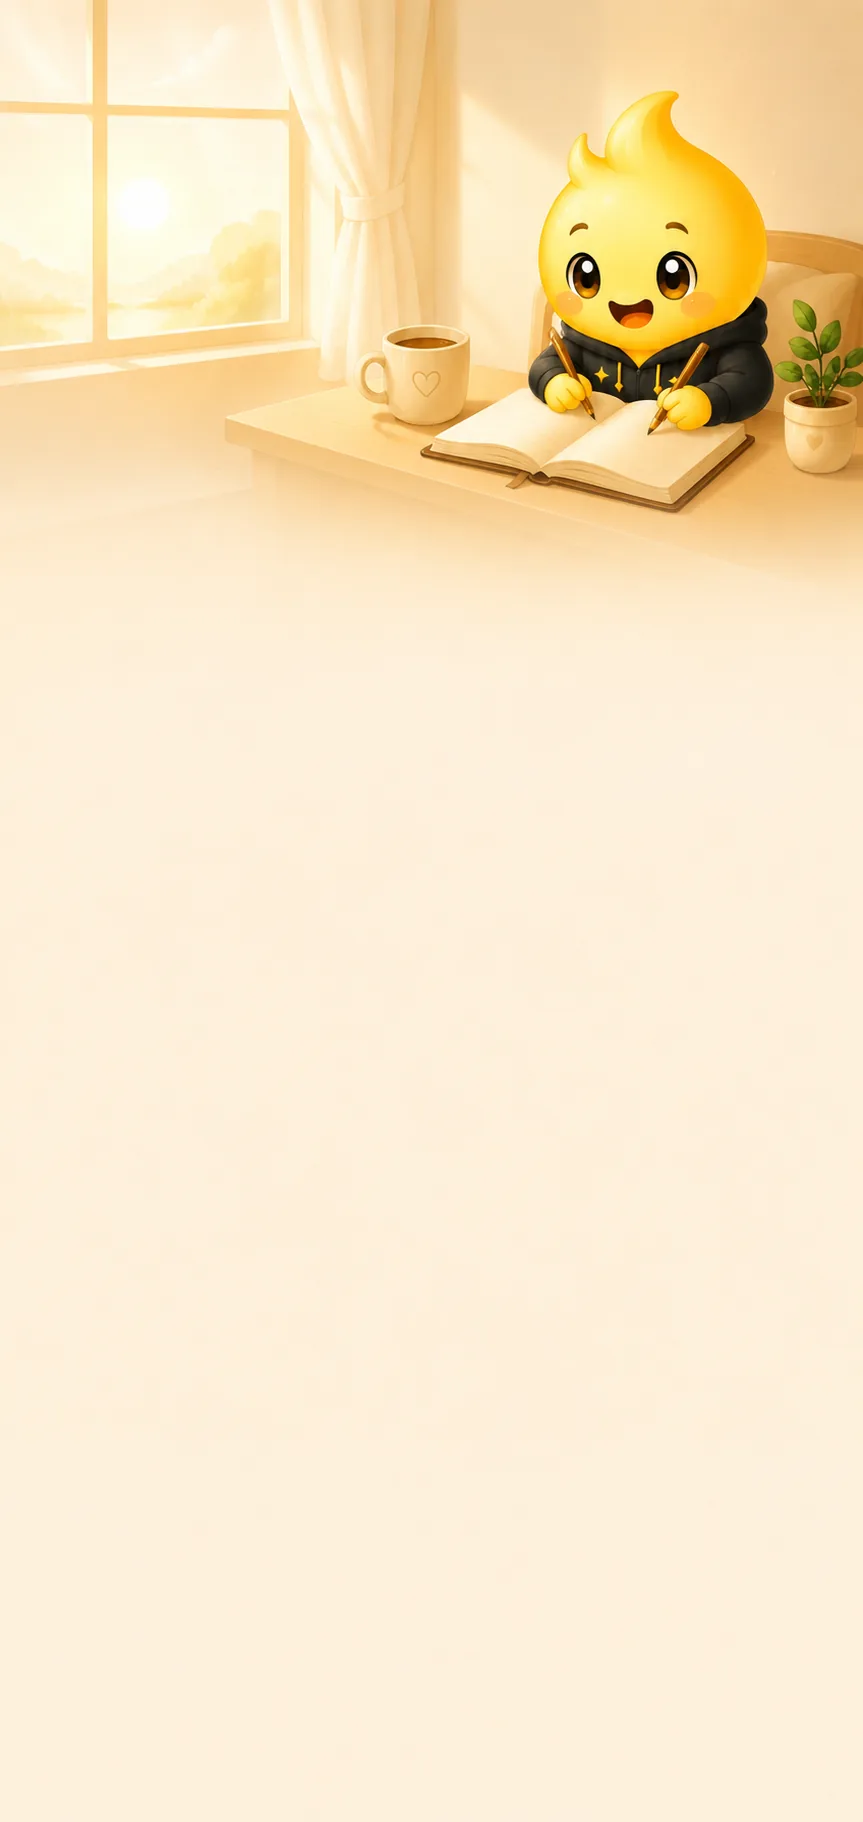
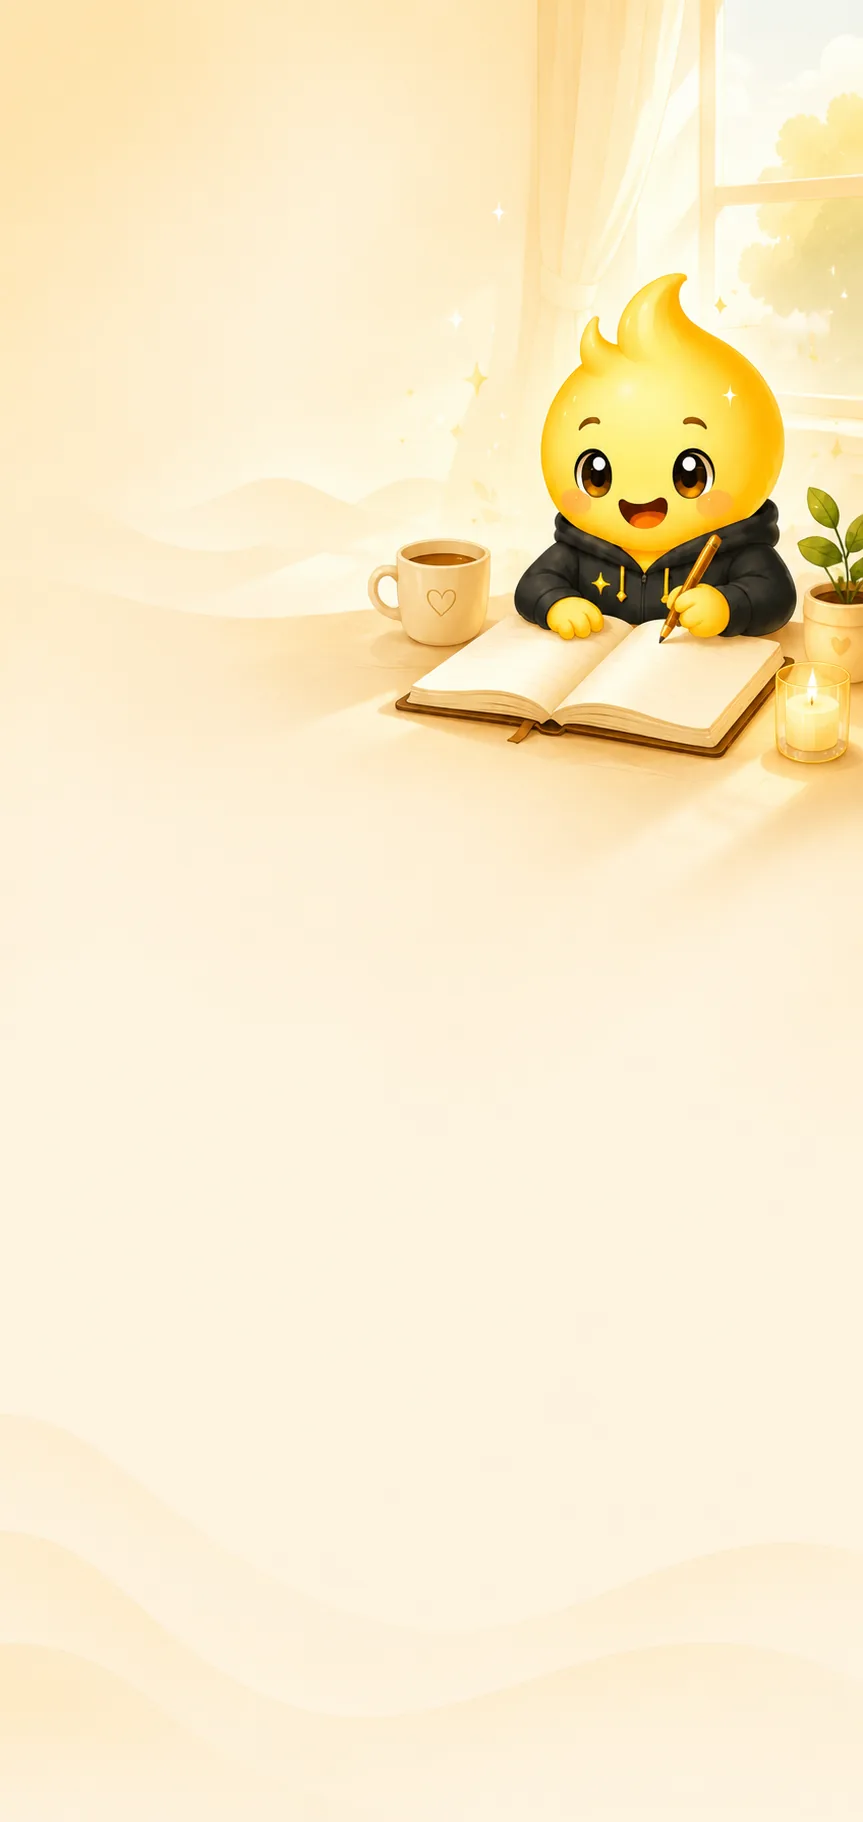
feat: improve bg

diff --git a/app/move/track.tsx b/app/move/track.tsx
@@ -362,13 +362,31 @@ export default function MoveTrackScreen() {
         <ScreenHeader
           /* Only in the picture. On the screen the distance is the headline and
              a title over it says the same thing twice — but a shared image
-             leaves the app behind, so it has to carry its own name. */
-          title={capturing ? "RUN WITH LUMO" : undefined}
-          rightAction={
-            capturing
-              ? undefined
-              : { icon: "check", label: saving ? "Saving" : "Save this activity", onPress: () => void handleSave() }
+             leaves the app behind, so it has to carry its own name.
+
+             `centerContent` rather than `title`, because the header's own title
+             face is the serif every screen wears and this is a mark on a
+             picture: caps, tracked, in the app's sans.
+
+             Always rendered, hidden by opacity. Adding it for the shot made the
+             header re-lay out one frame before the capture, which read as the
+             page twitching under the finger that just pressed Share. */
+          centerContent={
+            <View accessibilityElementsHidden={!capturing} importantForAccessibility={capturing ? "auto" : "no-hide-descendants"}>
+              <AppText color={palette.ink} numberOfLines={1} style={[styles.shareTitle, { opacity: capturing ? 1 : 0 }]}>
+                RUN WITH LUMO
+              </AppText>
+            </View>
           }
+          rightAction={{
+            icon: "check",
+            label: saving ? "Saving" : "Save this activity",
+            onPress: () => void handleSave(),
+            /* An empty box of the button's own size for the shot: `render`
+               suppresses the outline too, so the slot holds its width without
+               drawing anything. */
+            render: capturing ? <View style={styles.headerSlot} /> : undefined
+          }}
         />
 
         <View style={styles.summaryCapture}>
@@ -414,17 +432,20 @@ export default function MoveTrackScreen() {
             Hidden without a route. A walk with no fixes has nothing worth
             sending — the shared image would be four numbers on cream — and an
             offer to share it is the app asking for something nobody wants. */}
-        {toWalkPoints(state).length > 0 && !capturing ? (
+        {toWalkPoints(state).length > 0 ? (
         <Pressable
           accessibilityRole="button"
           accessibilityLabel="Share this activity"
+          // Hidden rather than removed while the shot is taken — pulling it out
+          // of the layout shifted everything above it mid-capture.
+          accessibilityElementsHidden={capturing}
           onPress={() => void handleShare()}
           // The app's chip wash, as on the habit form's categories: a green
           // tint with the glyph and label green to match, so it reads as one
           // control rather than dark text on a coloured patch.
           style={({ pressed }) => [
             styles.shareAction,
-            { backgroundColor: alpha(palette.greenDark, "1F"), opacity: pressed ? 0.6 : 1 }
+            { backgroundColor: alpha(palette.greenDark, "1F"), opacity: capturing ? 0 : pressed ? 0.6 : 1 }
           ]}
         >
           <Icon name="share" size={20} color={palette.greenDark} weight="fill" />
@@ -828,6 +849,20 @@ const styles = StyleSheet.create({
     minHeight: 38,
     paddingHorizontal: spacing.lg,
     borderRadius: radius.pill
+  },
+  headerSlot: {
+    width: 38,
+    height: 38
+  },
+  shareTitle: {
+    fontFamily: fontFamilies.lexendBlack,
+    fontSize: 14,
+    lineHeight: 19,
+    letterSpacing: 1.2,
+    // Riding the top of the header band rather than sitting on the buttons'
+    // centre line: in the picture there are no buttons to line up with, and a
+    // mark belongs at the edge of the frame.
+    marginTop: -spacing.sm
   },
   shareLabel: {
     fontFamily: fontFamilies.lexendBold,

diff --git a/lib/move/tracking/pace.ts b/lib/move/tracking/pace.ts
@@ -36,16 +36,19 @@ export function paceToSpeed(paceMsPerKm: PaceMsPerKm): number | null {
 }
 
 /**
- * "6:24 /km", or a zero of the same shape when there is nothing to show yet.
+ * "6:24 /km", or a bare "0:00" when there is nothing to show yet.
  *
  * Zero rather than a dash: on a readout of four figures a row of dashes looked
- * like the tracker had failed, where "0:00 /km" reads as "not yet". The VALUE
- * stays null — only its rendering is a number, and nothing downstream of this
- * ever sees a zero it did not measure.
+ * like the tracker had failed, where a zero reads as "not yet". The VALUE stays
+ * null — only its rendering is a number, and nothing downstream of this ever
+ * sees a zero it did not measure.
+ *
+ * The unit goes with it. "0:00 /km" states a pace per kilometre for a walk that
+ * has covered none; the bare figure is a placeholder and looks like one.
  */
 export function formatPace(paceMsPerKm: PaceMsPerKm | null): string {
   if (paceMsPerKm === null || !Number.isFinite(paceMsPerKm) || paceMsPerKm <= 0) {
-    return "0:00 /km";
+    return "0:00";
   }
 
   const totalSeconds = Math.round(paceMsPerKm / 1000);
@@ -55,13 +58,15 @@ export function formatPace(paceMsPerKm: PaceMsPerKm | null): string {
   return `${minutes}:${String(seconds).padStart(2, "0")} /km`;
 }
 
-/** "5.4 km/h", or "0.0 km/h" before there is one — see `formatPace`. */
+/** "5.4 km/h", or a bare "0.0" before there is one — see `formatPace`. */
 export function formatSpeed(metresPerSecond: number | null): string {
   if (metresPerSecond === null || !Number.isFinite(metresPerSecond) || metresPerSecond < 0) {
-    return "0.0 km/h";
+    return "0.0";
   }
 
-  return `${((metresPerSecond * 3600) / 1000).toFixed(1)} km/h`;
+  const value = ((metresPerSecond * 3600) / 1000).toFixed(1);
+
+  return value === "0.0" ? value : `${value} km/h`;
 }
 
 /**
@@ -216,9 +221,9 @@ export function elevationGain(segments: ActivitySegment[]): number | null {
   return sawAltitude ? Math.round(gain) : null;
 }
 
-/** "120 m", or "0 m" when the device reported no altitude — see `formatPace`. */
+/** "120 m", or a bare "0" with no altitude to report — see `formatPace`. */
 export function formatElevation(metres: number | null): string {
-  return metres === null ? "0 m" : `${metres} m`;
+  return metres ? `${metres} m` : "0";
 }
 
 /** "14:22", or "1:14:22" once an activity passes the hour. */

diff --git a/constants/theme.ts b/constants/theme.ts
@@ -32,6 +32,17 @@ export const brand = {
    * `canvas` that they read yellow.
    */
   card: "#FDFBF5",
+  /**
+   * The page ground: one step down from `card`, and the only thing separating
+   * the two.
+   *
+   * The app deliberately puts pages, cards and the tab shell on the same warm
+   * near-white — nothing is a plate on a darker ground. At `card` exactly, that
+   * near-white read as bare white on a phone at full brightness, so the PAGE
+   * takes a shade off while the cards hold their value. Still far short of
+   * `canvas`, which stays the deeper cream the art is cut against.
+   */
+  page: "#FBF7EE",
   /** Warm outline for fields and selected cards (never a cool gray hairline). */
   borderWarm: "#E6D0A6",
   /** Inactive tracks, dots, and switch rails. */
@@ -73,12 +84,12 @@ export const brand = {
 export type LumoPalette = typeof lightPalette;
 
 export const lightPalette = {
-  // Same value as `card`. The page, the cards and the tab shell all sit on one
-  // warm near-white, so nothing is a plate on a darker ground. Cards are told
-  // apart by their shadow and, where they have one, their hairline — see the
-  // note on `brand.canvas`, which is kept as the deeper cream some art and
-  // gradients are cut against.
-  canvas: brand.card,
+  // A shade under `card`. The page, the cards and the tab shell still share one
+  // warm near-white — cards are told apart by their shadow and, where they have
+  // one, their hairline — but the ground carries the shade so a full-brightness
+  // screen does not read as plain white. See the note on `brand.canvas`, which
+  // stays the deeper cream some art and gradients are cut against.
+  canvas: brand.page,
   // Deeper than brand.creamSoft (which onboarding still uses over its lighter
   // cream) so recessed areas stay readable against the deeper canvas, and held
   // at the canvas's lower saturation.

diff --git a/constants/backgroundAssets.ts b/constants/backgroundAssets.ts
@@ -182,8 +182,19 @@ export type HomePlateFit = {
  * `sceneBottom` comes down as `scale` goes up: it is a fraction of the plate's
  * height, and the plate is now taller than the screen. The two always move
  * together, or the first card follows Lumo down the page.
+ *
+ * `scale` is the ONLY lever, and it moves the scene diagonally: the plate is
+ * anchored top-left, so enlarging it slides every element in the art both right
+ * and down in proportion. Right and down cannot be asked for separately here.
+ *
+ * 1.0 is the floor — the plate exactly the width of the screen. Below it the
+ * art stops covering the width and a strip of canvas opens at the side; the
+ * art's own left edge is a warmer cream than the canvas, so that strip shows as
+ * a seam rather than blending. Moving Lumo right without also moving him down
+ * would mean drawing the plate offset with that strip exposed, which is why
+ * there is no `shiftX`.
  */
-const HOME_FIT: HomePlateFit = { scale: 1.18, shiftY: 0, sceneBottom: 0.26 }
+const HOME_FIT: HomePlateFit = { scale: 1.1, shiftY: 0, sceneBottom: 0.26 }
 
 export const HOME_PLATE_FIT: Record<HomePeriod, HomePlateFit> = {
 	earlyMorning: HOME_FIT,

diff --git a/lib/move/tracking/__tests__/tracking.test.ts b/lib/move/tracking/__tests__/tracking.test.ts
@@ -260,7 +260,7 @@ describe('pace', () => {
 		expect(smoothedPace([], T0)).toBeNull()
 		// Rendered as a zero of the right shape, not a dash — the null is still
 		// what the maths returns, and only the label is a number.
-		expect(formatPace(null)).toBe('0:00 /km')
+		expect(formatPace(null)).toBe('0:00')
 	})
 
 	it('converts between speed and pace', () => {
@@ -427,7 +427,7 @@ describe('elevation', () => {
 
 	it('says nothing when the device reported no altitude', () => {
 		expect(elevationGain(climb([null, null, null]))).toBeNull()
-		expect(formatElevation(null)).toBe('0 m')
+		expect(formatElevation(null)).toBe('0')
 		expect(formatElevation(120)).toBe('120 m')
 	})
 })

diff --git a/app/(tabs)/today.tsx b/app/(tabs)/today.tsx
@@ -310,7 +310,9 @@ export default function TodayScreen() {
 				</View>
 			</View>
 
-			<StreakCard habits={activeHabits} dateKey={selectedDateKey} />
+			<View style={styles.streakSection}>
+				<StreakCard habits={activeHabits} dateKey={selectedDateKey} />
+			</View>
 
 			<QuickDoneWidgets
 				habits={selectedHabits}
@@ -405,6 +407,9 @@ const styles = StyleSheet.create({
 	content: {
 		gap: CONTENT_GAP,
 		paddingBottom: layout.tabScreenBottomPadding,
+	},
+	streakSection: {
+		marginTop: spacing.lg,
 	},
 	header: {
 		flexDirection: 'row',

diff --git a/assets/walk/README.md b/assets/walk/README.md
@@ -5,6 +5,8 @@
 | `LumoWalking.webp` | 853 × 1844 | Backdrop plate — the Walk home and active screens |
 | `LumoDoneWalking.webp` | 853 × 1844 | Backdrop plate — the walk-complete screen |
 | `LumoWalked.webp` | 941 × 1672 | Full-bleed scene, the same shape as the journal's today scene |
+| `LumoWalkingNight.webp` | 853 × 1844 | Night cut of the walking scene — **not wired up** |
+| `LumoWalkedNight.webp` | 941 × 1672 | Night cut of the waving scene — **not wired up** |
 
 The two plates share `BACKGROUND_ASPECT` (853/1844) with everything in
 `assets/bg/`, so they slot into the background registry unchanged.
@@ -31,6 +33,13 @@ which is free here because encoding happens once.
 `LumoWalking.webp` backs the Move screens and `LumoDoneWalking.webp` the
 completion ones, both through `components/WalkBackground.tsx` — which draws them
 at full strength with no bottom fade, unlike the eight landscape washes.
+
+The two night cuts are **not referenced by any screen**. They were encoded for a
+day/night swap at 6pm–4am that was backed out before it shipped; wiring them
+back up means a `WalkPlate` entry each, their own `PLATE_FIT` row — they are cut
+to DIFFERENT frames from each other, so neither can borrow the other's numbers —
+and a `PLATE_TINT` sampled from the art's top band (`#000F2E` and `#0C1535` as
+encoded here).
 
 `LumoWalked.webp` is **currently unused as a background**. It is framed the
 other way round from the two above — sky at the top, Lumo at the foot — so it
